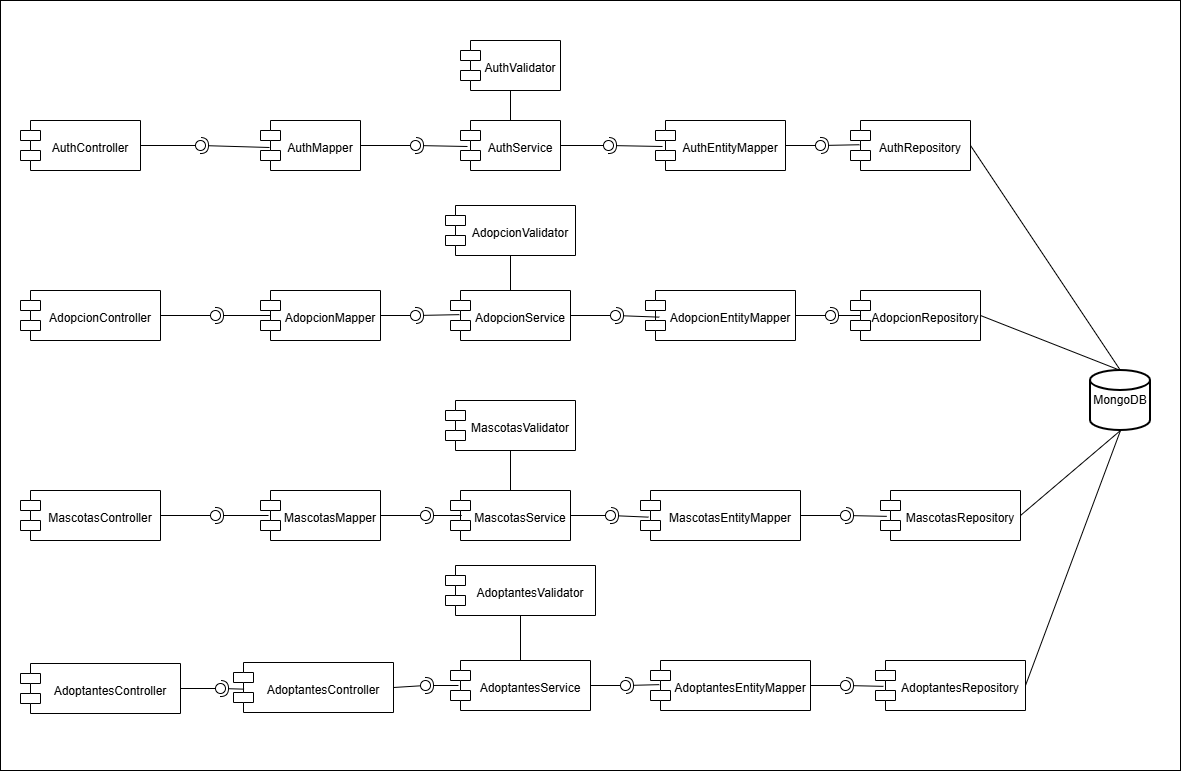
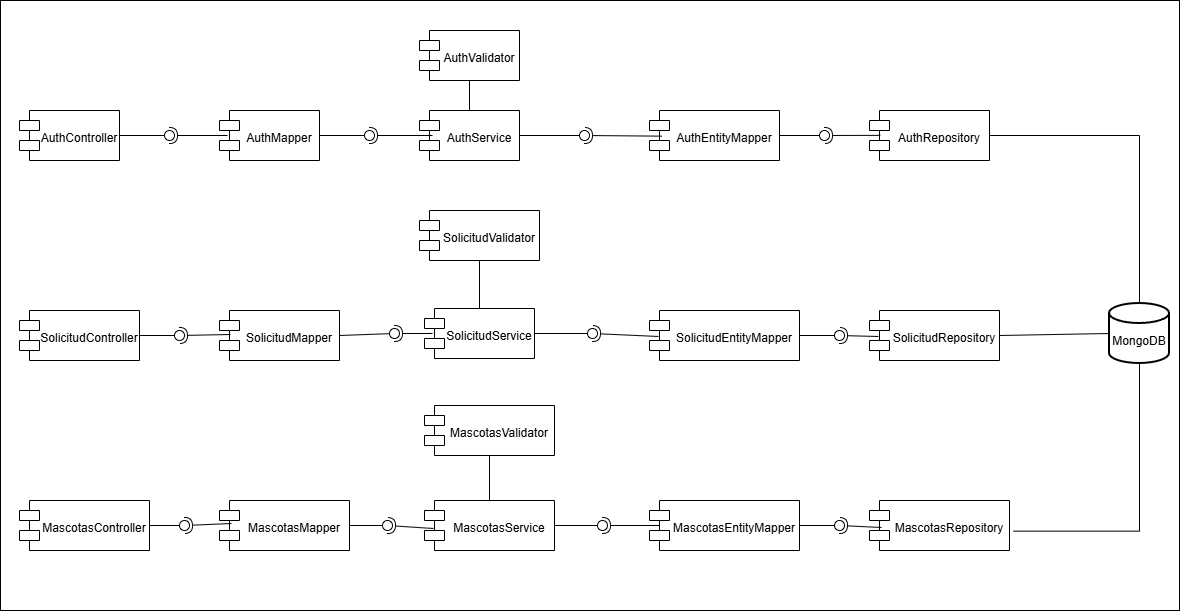
feat: Parcial T2 - Diagramas actualizados, breve explicacion en README, respuesta a preguntas planteadas

diff --git a/README.md b/README.md
@@ -5,7 +5,7 @@
 
 ## Teoria
 
-### 1. 1.	Asignación del equipo de Producto
+### 1. Asignación del equipo de Producto
 
 | Módulo | Método  | Endpoint | Idempotencia | Acceso | Validaciones de entrada | Validaciones de Negocio | Datos de Entrada | Ejemplo de entrada | Datos de Salida | Ejemplo de Salida | Codigo HTTP |
 |:-------|:--------|:---------|:-------------|:-------|:------------------------|:------------------------|:-----------------|:-------------------|:----------------|:------------------|-----|
@@ -25,10 +25,51 @@
 * **b.	En crear solicitud, ¿cómo debe responder la API si fallan varias condiciones? Expliquen qué error se informa y qué cambios deben evitarse.**
   * Deberia responder con un unico codigo siguiendo un orden de precedencia: primero `400` (JSON malformado) > `422` (Validaciones de campo) > `404` (Refugio no existe) > `409` (duplicado). Adenas ningun cambio deberia persistirse, y se devuelve `422` con lista de campos invalidos.
 
+### 2. Asignacion del equipo de Arquitectura
+
+#### Diagrama de componentes general
+
+![Diagrama de componentes general](/docs/uml/DC-General.png)
+
+- El Cliente se comunica a la API Paw Connect mediante HTTPS, con autenticacion por JWT. LA API concentra toda la logica del sistema. MongoDB se usa como base de datos no relacional que almacena las cuatro colecciones del sistema.
+
+#### Diagrama de componentes especifico
+
+![Diagrama de componentes especifico](/docs/uml/DC-Especifico.png)
+
+- Teniendo tres funcionalidades principales (Autenticacion, Solicitudes de adopcion y mascotas), decidimos manejarlo por tres funcionalidades en paralelo, lo cual queda consecuente a la tabla de endpoints ya escrita.
+
+- Separamos los Mapper IN-OUT con Mapper y MapperEntity. Donde manejamos los request dto con el Mapper y transformamos a las entidades con el EntityMapper, respectivamente.
+
+#### Diagrama de clases
+
+![Diagrama de clases](/docs/uml/diagrama%20clases.png)
+
+- Manejamos la jerarquia de refugios con el Patron de diseño Composite, con la clase Abstracta NodoRefugio, que permite invocar el metodo `obtenerMascotas()` sobre cualquier nodo, sin saber la estructura interna.
+
+#### Preguntas
+
+* **a.	¿Qué problemas aparecen cuando no se separan correctamente las capas? Presenten un ejemplo del caso y expliquen cómo distribuyen sus responsabilidades.**
+  *  Puede generar acoplamiento, dificultad en test, no cumplir con Sigle Responsability de SOLID. Ejemplo: Si la validacion de "solo un adoptante con solicitud activa" vive en controller, no se puede reutilizar para aplazar.
+* **b.	¿Qué diferencia existe entre un validador, una utilidad y un servicio? Ubiquen un ejemplo de cada uno en su diseño e indiquen su responsabilidad.**
+  * Validador: Verifica reglas de negocio puntuales. Ejemplo: MascotaValidator
+  * Utilidad: funciones puras sin estado. Ejemplo: FechaUtil, para calcular los 1-15 dias.
+  * Servicio: Maneja el caso de uso completo. Ejemplo: SolicitudService
+
+* **c. ¿Qué diferencia existe entre el Mapper IN y el Mapper OUT? Indiquen dónde se ubican y qué representaciones transforman cada uno.**
+  * Mapper IN: Request dto a modelo
+  * Mapper OUT: Modelo a Response dto
+  * Se ubican en Controller.
+
+* **d.	Retomen las tres reglas clasificadas en el paso anterior: ¿en qué componente debe ejecutarse cada una y por qué?**
+  * Especie/tamaño valido con MascotaValidator
+  * RegufioExistente y tipo Refugio con MascotaService
+  * Edad 0-360 con MascotaValidator
+
+
 * **URL Base en Azure:** https://dosw-parcial2-danielmosquera.azurewebsites.net
 * **URL Health Check:** [https://dosw-parcial2-danielmosquera.azurewebsites.net/api/v1/health](https://dosw-parcial2-danielmosquera.azurewebsites.net/api/v1/health)
 * **URL Swagger UI:** [https://dosw-parcial2-danielmosquera.azurewebsites.net/swagger-ui/index.html](https://dosw-parcial2-danielmosquera.azurewebsites.net/swagger-ui/index.html)
-
 
 # Construir la imagen local
 docker build -t dosw-parcial:local .
